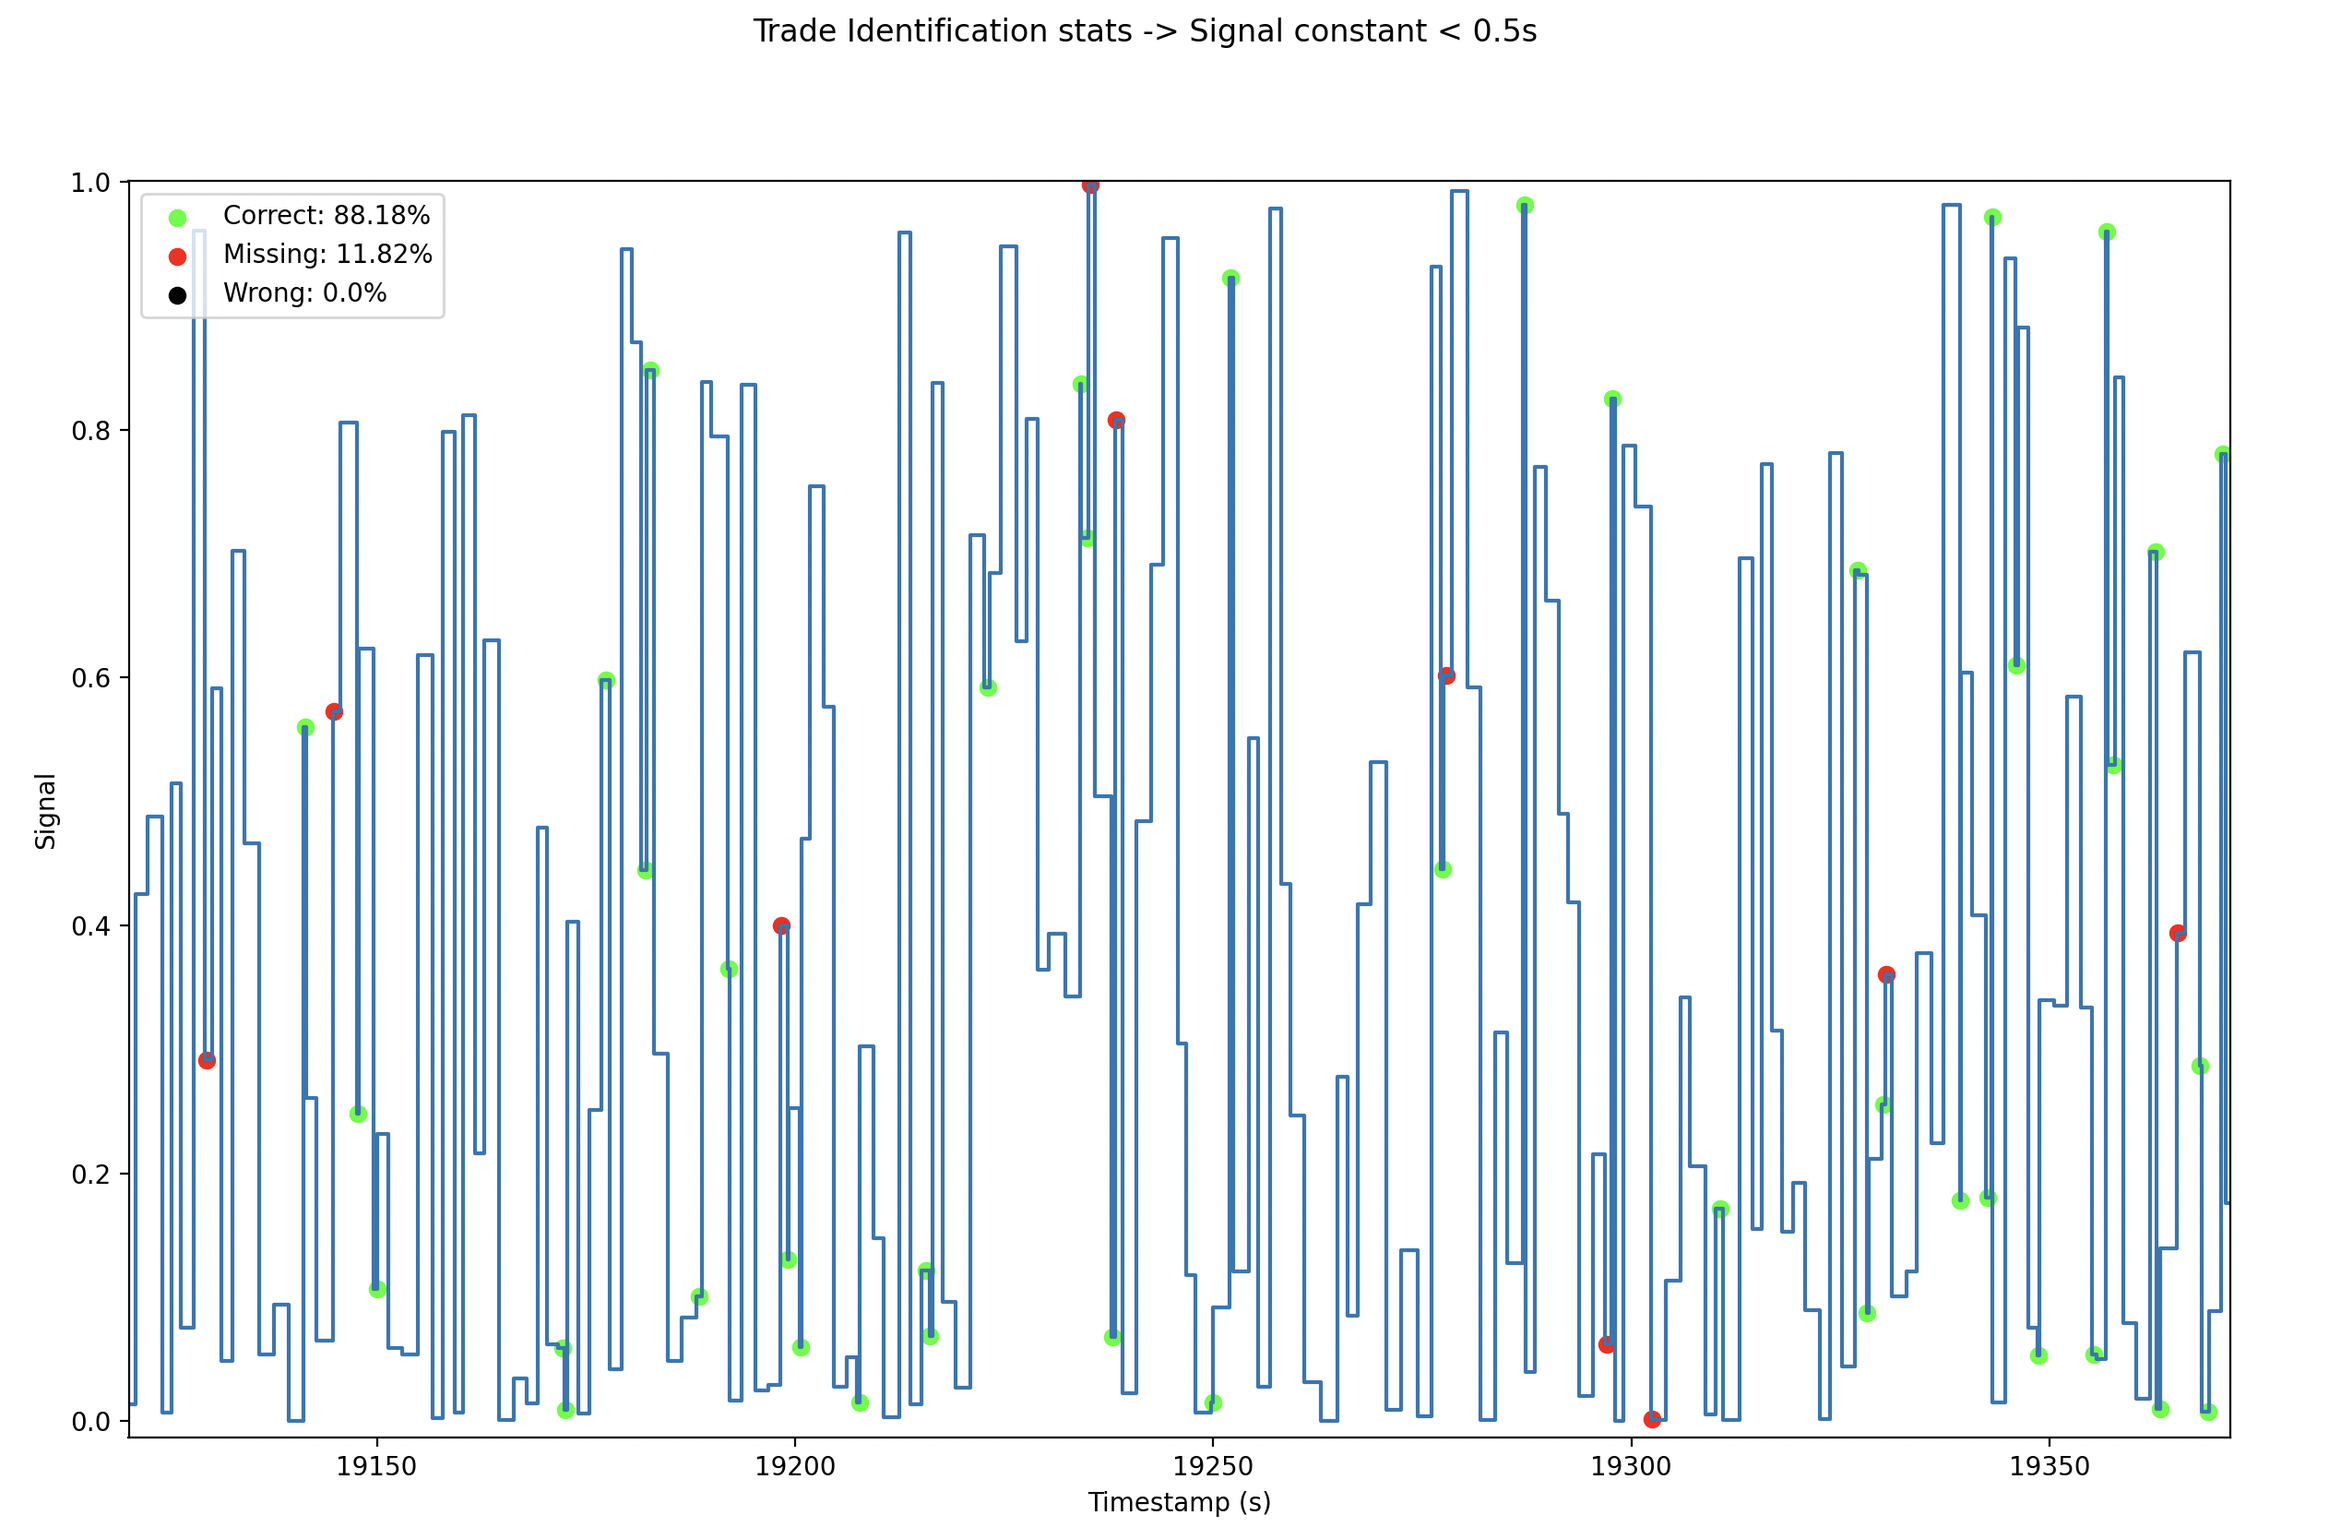
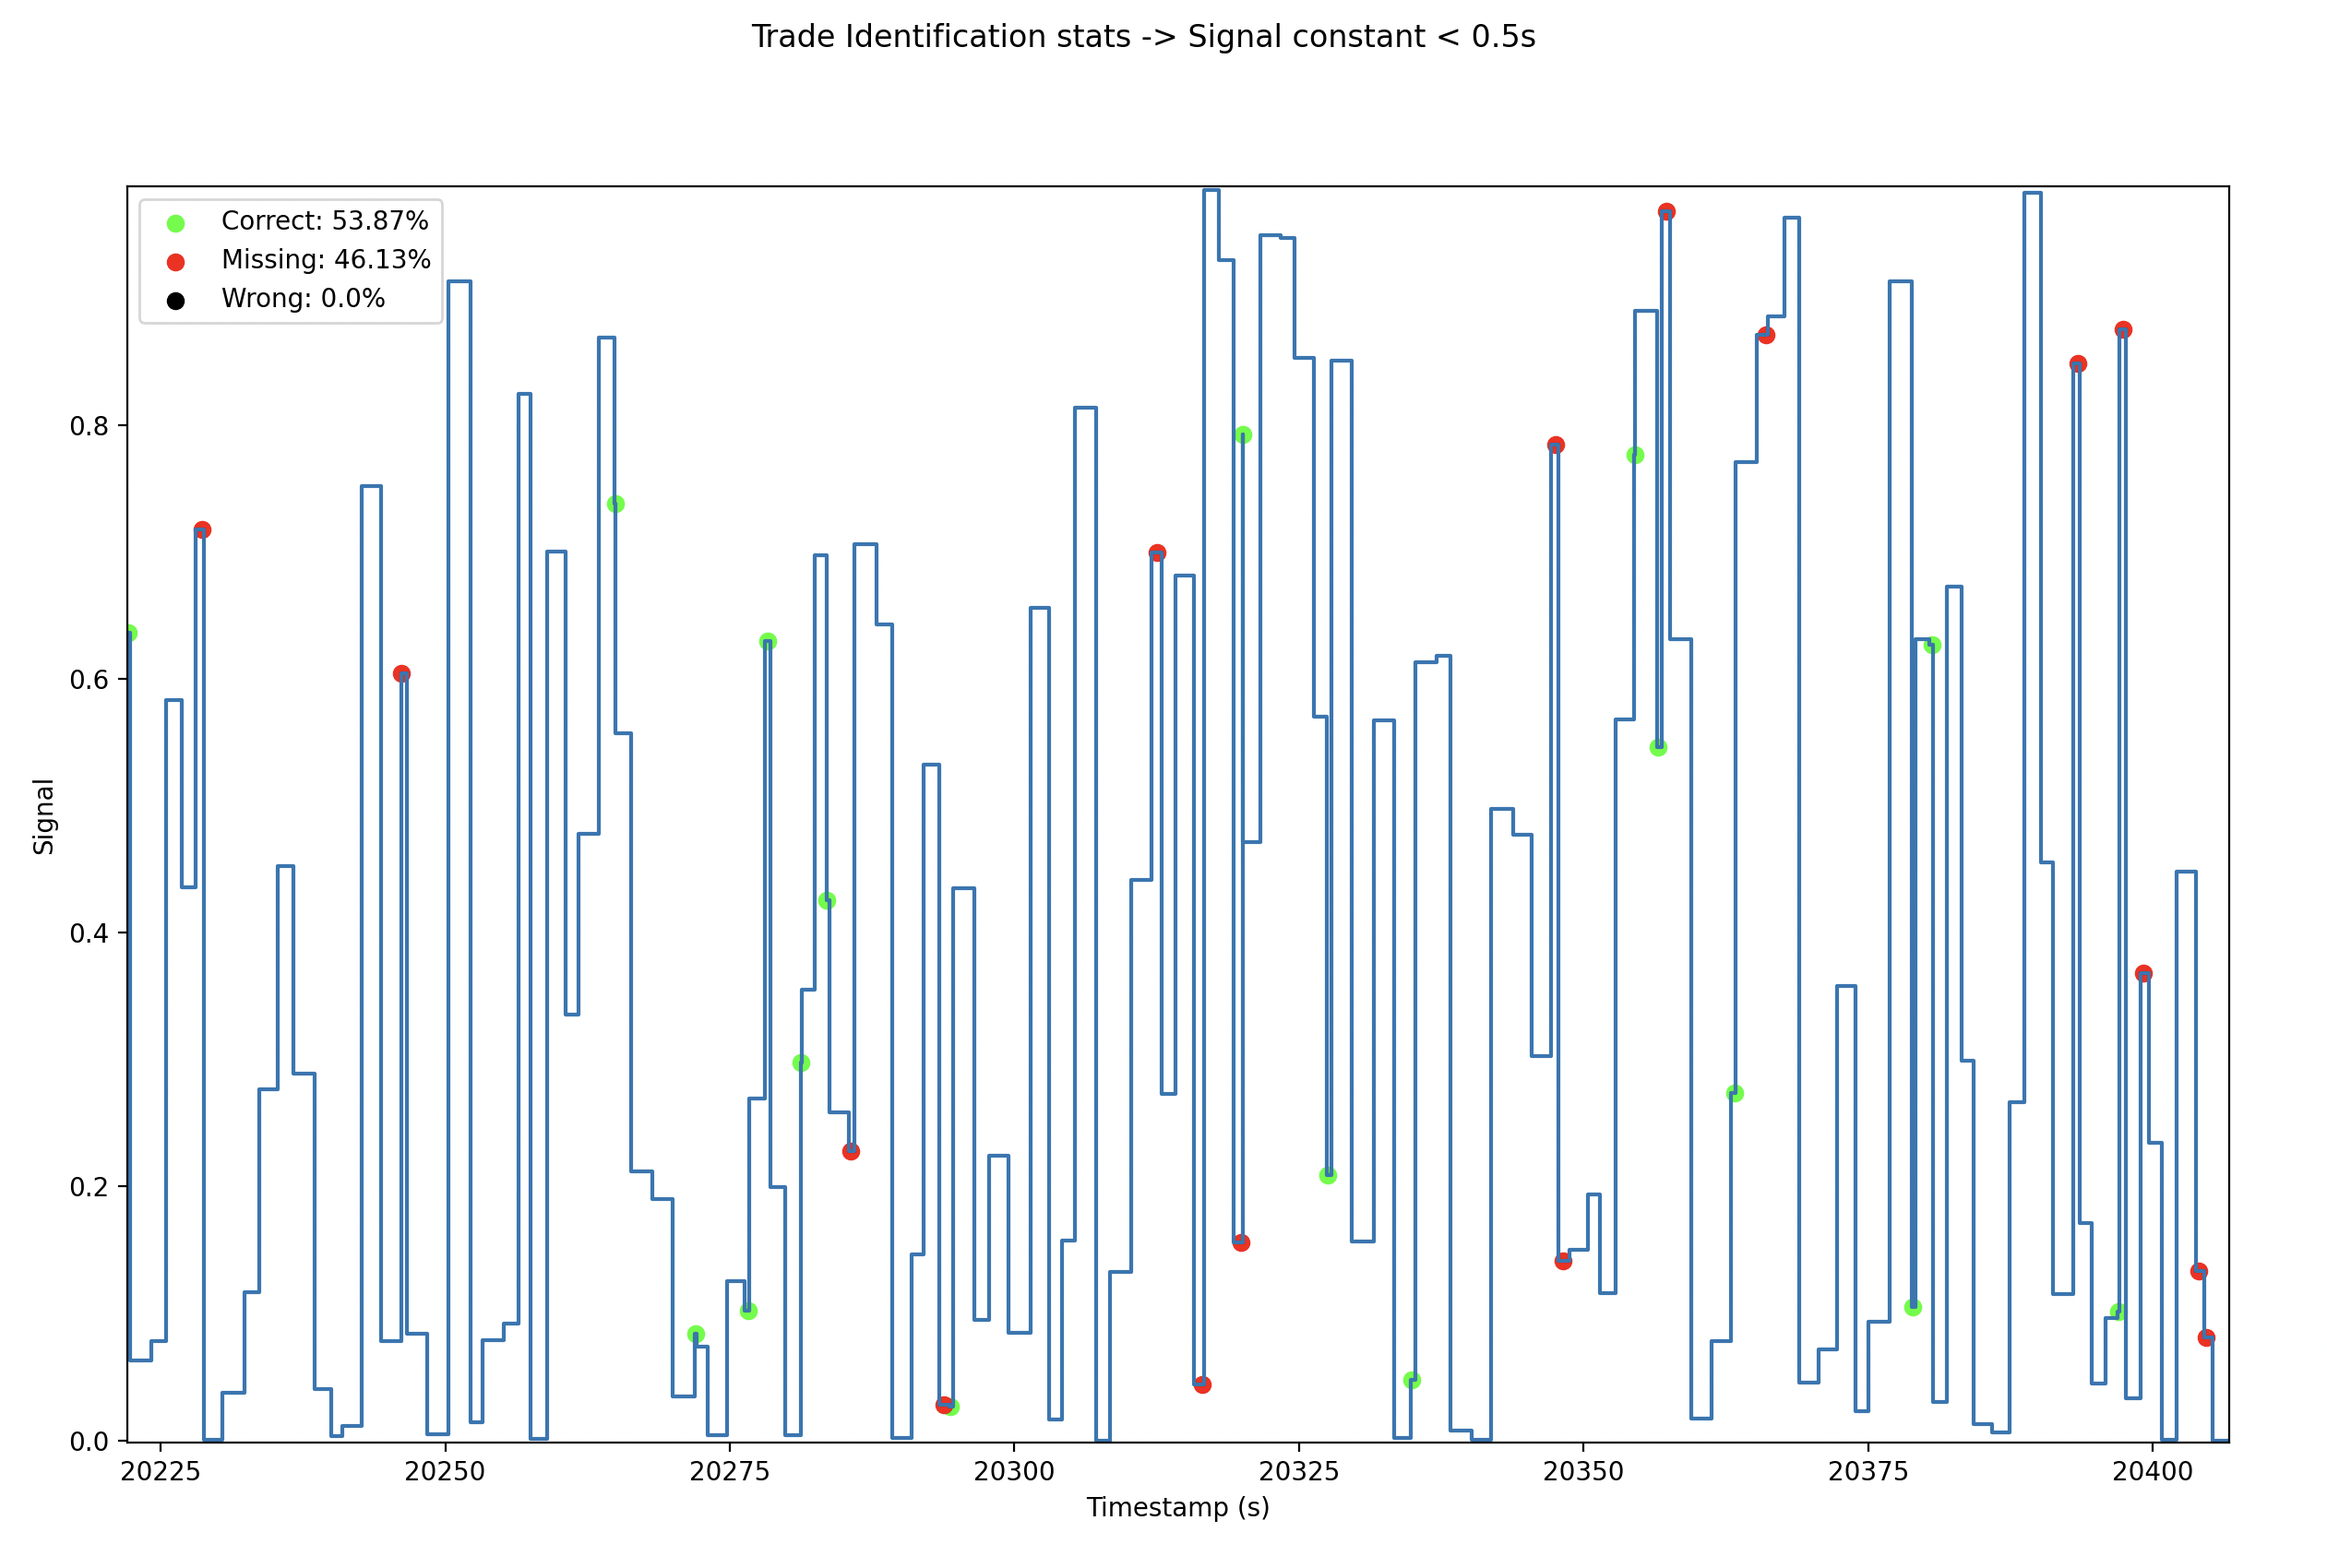
Bug: trade data causing wrong rolling diff

Changed region(s): [[0.0309, 0.0935, 0.9588, 0.9976], [0.3093, 0.0, 0.6495, 0.0312], [0.0, 0.4988, 0.0309, 0.5612]]

diff --git a/signal_processing/processing.py b/signal_processing/processing.py
@@ -22,8 +22,12 @@ class Processor:
 
         # Create copy (as df is mutable) to avoid side effects
         res = self.combined.copy()
-        # Calculate rolling difference on the index (timestamps)
-        res.loc[res.index[1:], 'time_same'] = np.diff(res.index)
+
+        # Need to perform diff on non trades df
+        self.signal.data.loc[self.signal.data.index[1:], 'time_same'] = np.diff(self.signal.data.index)
+        # Apply calc on combined df
+        res['time_same'] = self.signal.data['time_same']
+
         # when the signal is constant for less than the threshold (and its not a trade row) -> classify as trade
         mask = (res['time_same'] < threshold) & (res['Trade'] != 1.0)
         res.loc[mask, 'predict'] = 1

diff --git a/signal_processing/main.py b/signal_processing/main.py
@@ -17,9 +17,9 @@ def main():
     process.align_signal_trades()
 
     # Wrapper around identify trend method allowing for parameter tuning
-    process.identify_trend_grid(grid=np.linspace(0, 1.5, 100, endpoint=False), plot_grid=True)
+    process.identify_trend_grid(grid=np.linspace(0.5, 1.5, 100, endpoint=False), plot_grid=True)
     process._identify_trend(threshold=0.5, plot=True)
-    process._identify_trend(threshold=0.95, plot=True)
+    process._identify_trend(threshold=1, plot=True)
     process._identify_trend(threshold=1.5, plot=True)
     plt.show(block=True)
 
